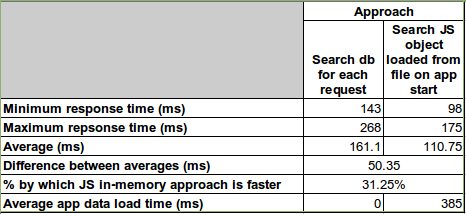
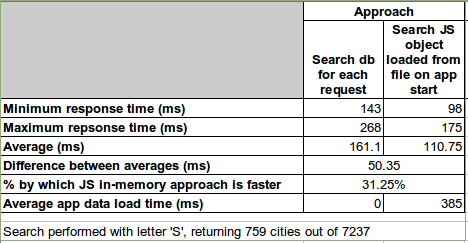
fixed api-stream bug with 404 response. fixed sorting by name when don't have coordinates. added response time to test page.

diff --git a/public/scripts/test-web.js b/public/scripts/test-web.js
@@ -17,19 +17,24 @@ function loadSuggestions() {
 	if ($("#city").val().trim() == '') {
 		document.getElementById('loading').innerHTML = 'No results.';
 		document.getElementById('suggestions').innerHTML = '';
+	    document.getElementById("numresults").innerText='Number of Results = 0.';
 	} else {
 		var url = API_URL + "/suggestions?q=" + $("#city").val() + '&latitude=' + $("#latitude").val() + '&longitude=' + $("#longitude").val();
 		document.getElementById('loading').innerHTML = 'Loading...';
+		var startTime = new Date().getTime(); // report execution time
 		var myJsonObj = getJson(url);
+		var endTime = new Date().getTime();
+		var executionTime = endTime - startTime;
 		if (myJsonObj.suggestions.length == 0) {
 			document.getElementById('loading').innerHTML = 'No results for ' + $("#city").val();
 			document.getElementById('suggestions').innerHTML = '';
-		    document.getElementById("numresults").innerText="Number of Results = 0";
+		    document.getElementById("numresults").innerText="Number of Results = 0.";
 		} else {
 			var json = json2html.transform(myJsonObj.suggestions,transform);
 			document.getElementById('suggestions').innerHTML = json;
 			document.getElementById('loading').innerHTML = '';
-		    document.getElementById("numresults").innerText="Number of Results = " + myJsonObj.suggestions.length;
+		    document.getElementById("numresults").innerText="Number of Results = " + myJsonObj.suggestions.length + 
+		    	'; Data loaded in ' + executionTime + ' milliseconds.';
 		}
 	}
 }

diff --git a/api-stream.js b/api-stream.js
@@ -122,6 +122,10 @@ function handleRequest(req, res, parts) {
 	// copy matched items into our array
 	searchCities(qCity, suggestedCities);
     log('%d results returned for %s', suggestedCities.length, qCity);
+    // if no results, return 404
+    if (suggestedCities.length == 0) {
+    	res.status(404).end(JSON.stringify({'suggestions':suggestedCities}) + '\n');
+    }
 	// modify the city data for presentation, adding scored results
     prepareCityData(suggestedCities, parts);
     // sort the results by score
@@ -131,7 +135,7 @@ function handleRequest(req, res, parts) {
 	var executionTime = endTime - startTime;
 	log('Response execution time: %d milliseconds.', executionTime);
     // send JSON response
-	res.status(404).end(JSON.stringify({'suggestions':sortedResults}) + '\n');
+	res.status(200).end(JSON.stringify({'suggestions':sortedResults}) + '\n');
 }
 
 function prepareCityData(arr, parts) {

diff --git a/common.js b/common.js
@@ -1,5 +1,6 @@
 var util = require('util');
 var geolib = require('geolib'); 
+var dotenv = require('dotenv').load();
 var DEBUG_MODE = process.env.DEBUG_MODE || 'false';
 
 String.prototype.startsWith = function startsWith(pattern) {
@@ -85,10 +86,18 @@ function getDistance(parts, lat2, long2) {
 }
 
 function compare(cityA,cityB) {
-	if (cityA.score < cityB.score)
-		return 1;
-	if (cityA.score > cityB.score)
-		return -1;
+	if (cityA.score) {
+		if (cityA.score < cityB.score)
+			return 1;
+		if (cityA.score > cityB.score)
+			return -1;
+	// sort alphabetically if there is no score
+	} else {
+		if (cityA.name > cityB.name)
+			return 1;
+		if (cityA.name < cityB.name)
+			return -1;
+	}
 }
 
 function isNumeric(obj) {
